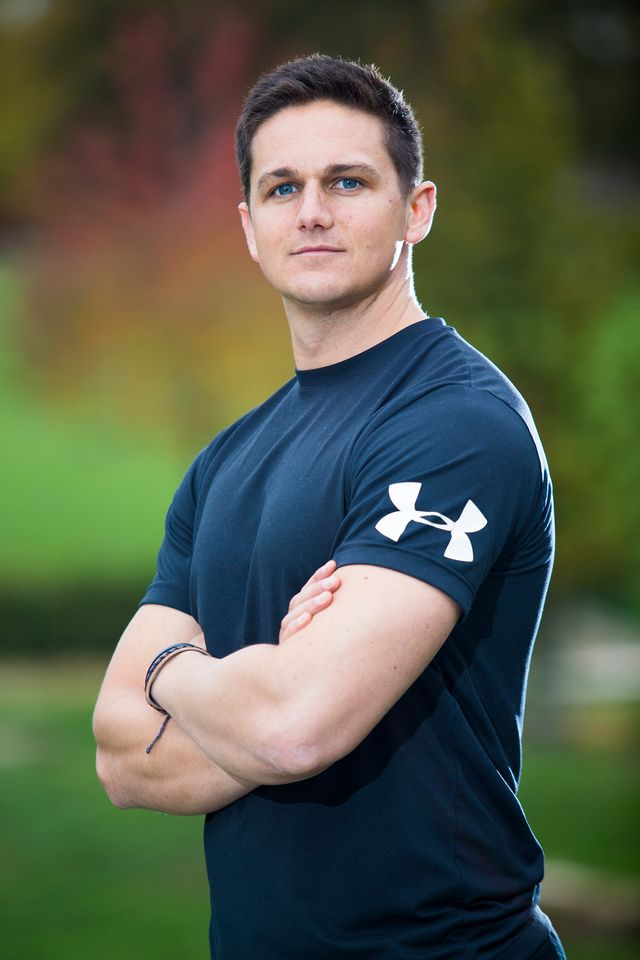
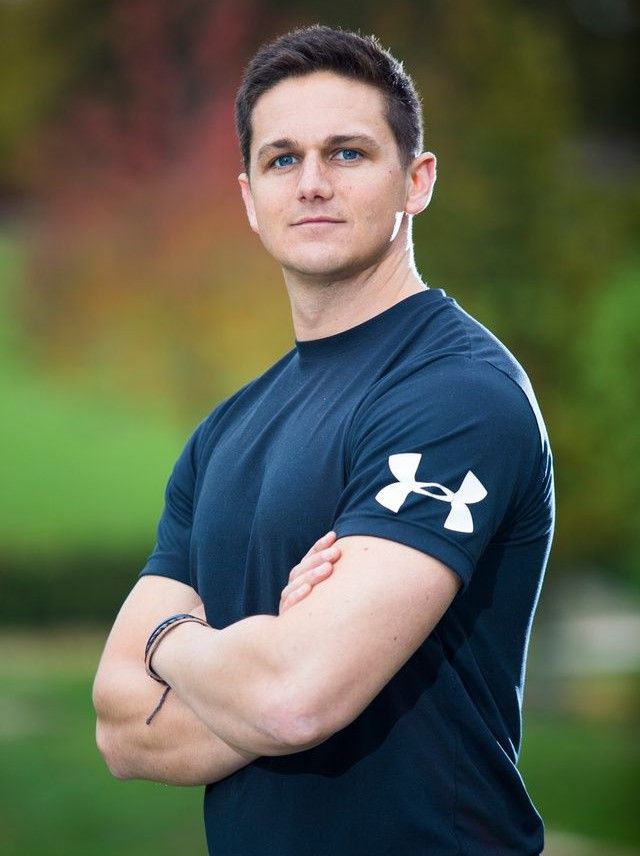
edit trining images

diff --git a/CSS files/main-syle.css b/CSS files/main-syle.css
@@ -66,7 +66,7 @@
   background-color: #e2e2e2;
 }
 #expert-trainers .card img {
-  height: 300px;
+  height: auto;
   object-fit: fill;
 }
 
